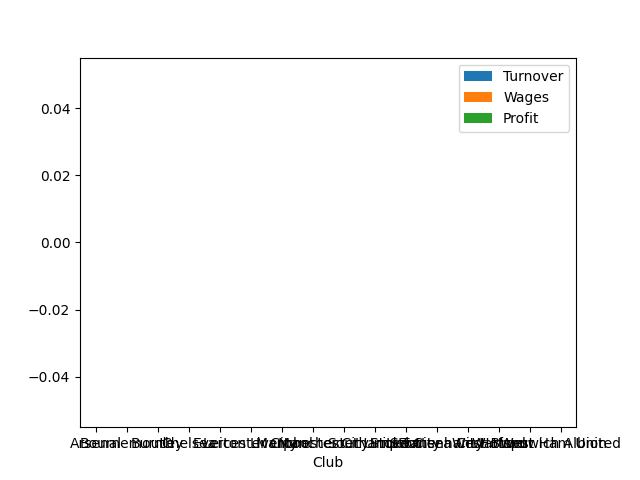
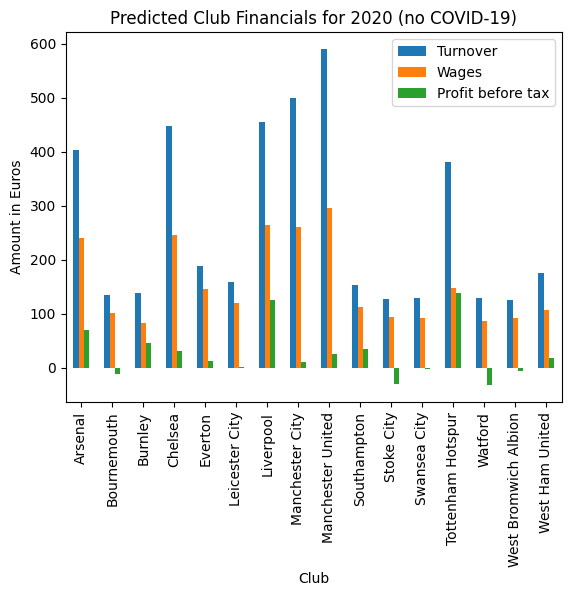
fixed q1 visuals

Changed region(s): [[0.0, 0.0, 0.9825, 1.0], [0.2382, 0.2188, 0.4168, 0.625], [0.0595, 0.0625, 0.1191, 0.0938]]

diff --git a/covid19_total_revenue.py b/covid19_total_revenue.py
@@ -6,7 +6,7 @@ What will the effect of COVID-19 be on the total revenue of the Premier League?
 '''
 
 import pandas as pd
-import matplotlib as plt
+import matplotlib.pyplot as plt
 
 
 def import_data(file_name):
@@ -38,13 +38,15 @@ def extrapolate_2020_data(data_17, data_18):
 
     # save csv and make plot
     data_20.to_csv('predicted_financials_2020.csv')
-    tmp = pd.DataFrame({'Turnover': data_20['Turnover'], 'Wages': data_20['Wages'], 'Profit': data_20['Profit before tax']}, index=data_20['Club'])
-    ax = tmp.plot.bar(rot=0)
-    ax.figure.savefig('predicted_financials_2020.png')
+    cols = ['Turnover', 'Wages', 'Profit before tax']
+    data_20.plot(x='Club', y=cols, kind='bar')
+    plt.title('Predicted Club Financials for 2020 (no COVID-19)')
+    plt.ylabel('Amount in Euros')
+    plt.savefig('predicted_financials_2020.png', bbox_inches='tight')
 
     return data_20
 
-    
+
 def covid_effects(data_20):
     '''
     covid_effects takes the predicted 2020 data and returns the data adjusted for the average
@@ -69,9 +71,11 @@ def covid_effects(data_20):
 
     # write csv and plot
     covid_df.to_csv('predicted_covid_financials_2020.csv')
-    tmp = pd.DataFrame({'Turnover': covid_df['Turnover'], 'Wages': covid_df['Wages'], 'Profit': covid_df['Profit before tax']}, index=covid_df['Club'])
-    ax = tmp.plot.bar(rot=0)
-    ax.figure.savefig('predicted_covid_financials_2020.png')
+    cols = ['Turnover', 'Wages', 'Profit before tax']
+    covid_df.plot(x='Club', y=cols, kind='bar')
+    plt.title('Predicted Club Financials for 2020 (with COVID-19)')
+    plt.ylabel('Amount in Euros')
+    plt.savefig('predicted_covid_financials_2020.png', bbox_inches='tight')
 
     return covid_df
 
@@ -93,4 +97,3 @@ def get_total_revenue():
     predicted_covid = covid_effects(predicted_20)
 
     return predicted_covid
-get_total_revenue()
